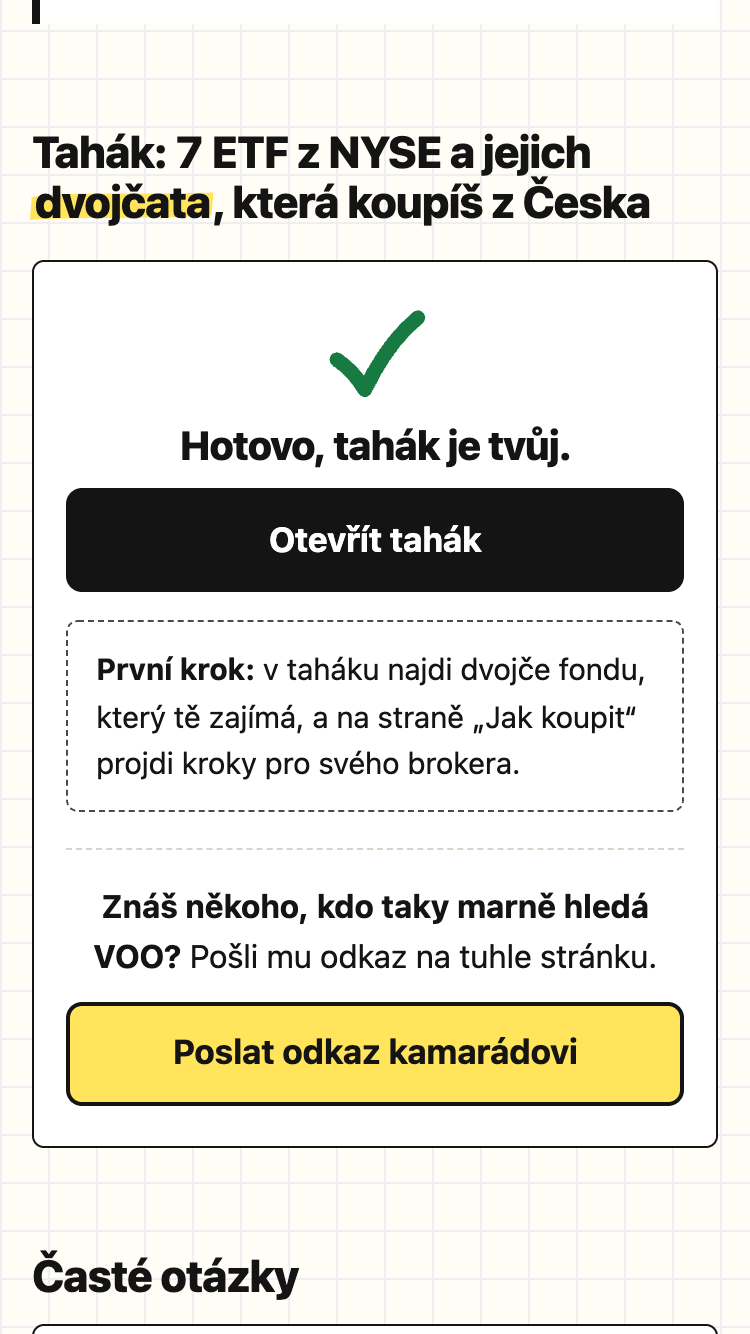
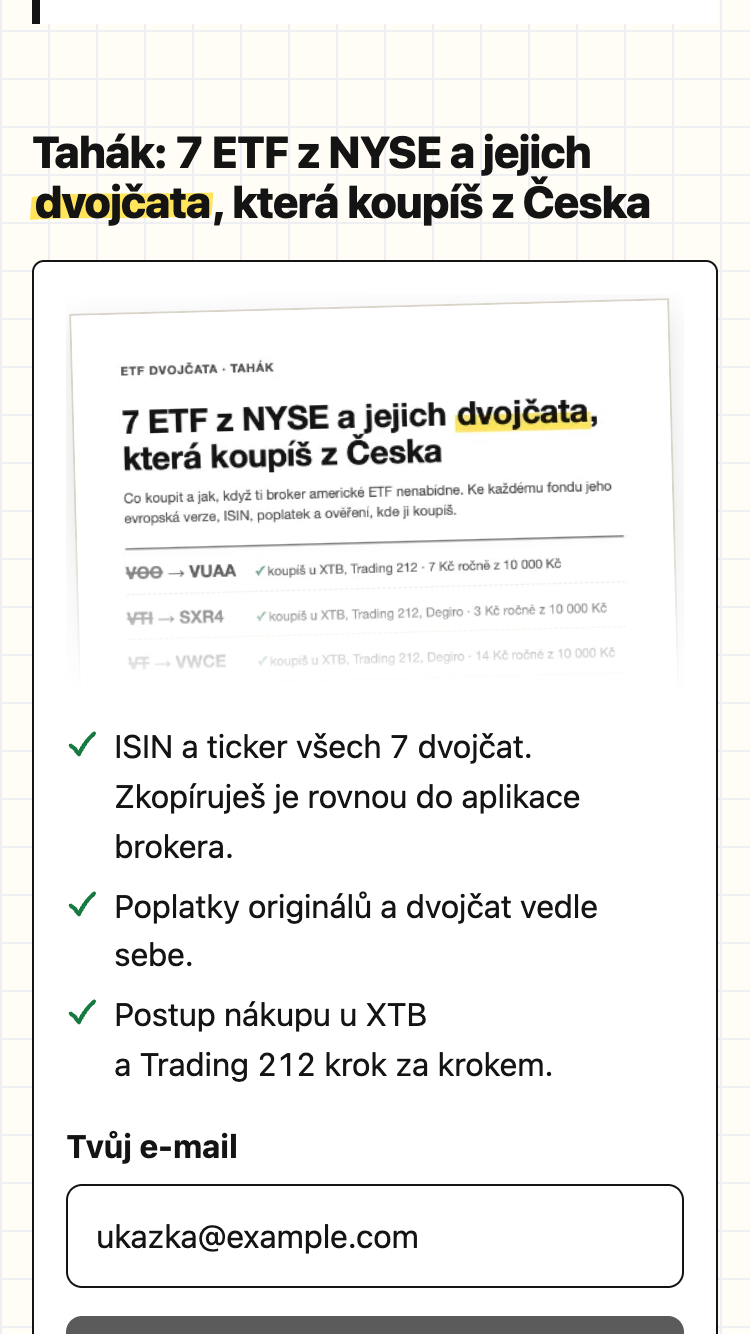
Snímky, Lighthouse a deník po třetím testu na iPhonu
- docs/screenshots: aktuální stav v Chromu a ve WebKitu (panel
  a formulář s klávesnicí a lištou návrhů, průběh otočení lístku),
- README: velikost stránky, Lighthouse (výkon, přístupnost, postupy
  100; SEO 66 kvůli záměrnému noindex), výsledky třetího testu,
- ai-log/denik.md: zadání, kontrola a kde se AI spletla.

Changed region(s): [[0.0613, 0.2151, 0.92, 0.8913], [0.0307, 0.922, 0.9813, 1.0]]

diff --git a/README.md b/README.md
@@ -194,7 +194,7 @@ _TODO: tři hypotézy seřazené podle očekávaného dopadu. U každé změna, 
 
 _TODO: stack a proč (čisté HTML/CSS/JS bez build kroku, Vercel, Supabase), zpracování formuláře, zabezpečení klíčů, rychlost načtení._
 
-- **Celá stránka je jeden soubor `public/index.html`** s inline CSS a JS a systémovým písmem. Bez externích skriptů a písem: 58,7 kB, po gzipu 16,9 kB, z toho JS 16,7 kB (po gzipu 6,1 kB). Jediný obrázek je náhled taháku (WebP, 24 kB), který se načte až u formuláře. Lighthouse (mobil, 11. 10. 2026, lokální server bez komprese): 100 ve všech čtyřech kategoriích (výkon, přístupnost, osvědčené postupy, SEO) u všech tří verzí úvodu, LCP 1,2 s, CLS 0, TBT 0 ms, celkem 82 KiB.
+- **Celá stránka je jeden soubor `public/index.html`** s inline CSS a JS a systémovým písmem. Bez externích skriptů a písem: 62,7 kB, po gzipu 18,5 kB, z toho JS 20,6 kB (po gzipu 7,6 kB). Jediný obrázek je náhled taháku (WebP, 24 kB), který se načte až u formuláře. Lighthouse (mobil, 11. 10. 2026, lokální server bez komprese, s CSP a ostatními hlavičkami z `vercel.json`): výkon, přístupnost a osvědčené postupy 100 u všech tří verzí úvodu, LCP 1,2 s, CLS 0, TBT 0 ms, celkem 88 KiB. SEO 66, protože stránka má záměrně `noindex` (jediný neúspěšný audit je „stránka je blokovaná pro indexování“).
 - **„Ručně kreslené“ prvky bez písma navíc.** Fix, šipky, kroužky a fajfky jsou malá inline SVG. Rukou psané písmo by přidalo desítky kB a probliknutí textu. Lístky se otáčejí bez 3D kontextu a bez `backface-visibility`: JS (Web Animations API, bez knihovny) otočí jednu rovinu s perspektivou o 90°, když je lístek z boku, vymění strany a dotočí. WebKit to kreslí stejně s grafickým čipem i bez něj. Při `prefers-reduced-motion` se jen vymění strany.
 - **Ikony a obrázek pro sdílení generuje skript** ([scripts/obrazky.mjs](scripts/obrazky.mjs)) ve stylu stránky a s čísly z `data/etf.json`: favicon (SVG a ICO), ikona pro iOS a `og.png` 1200×630 pro náhled odkazu na Facebooku a v Messengeru. Stránka si je nenačítá, takže nezdržují.
 - **Jen světlé barvy** (`color-scheme: only light`). Tmavý režim iOS ani automatické ztmavení v Chromu stránku nepřebarví, „sešit“ zůstane papírový.
@@ -277,6 +277,13 @@ Varianty úvodu po: [?v=dvojce](docs/screenshots/po-1b-uvod-dvojce.png), [?v=zac
 - V logu serveru bylo `GET /tahak.pdf` s 404 hned po úspěšném HEAD. Zopakovat se to nepodařilo a přegenerováním PDF to nebylo (PDF se naposledy zapsalo o 22 minut dřív). Generování teď zapisuje přes dočasný soubor a lokální server u každé 404 vypíše, kde soubor hledal.
 - Safari PDF místo stažení otevřelo v prohlížeči, takže poděkování „tahák se ti stahuje“ neplatilo. Teď je tam tlačítko „Otevřít tahák“.
 - Poděkování bylo prázdné, zásady měly moc žlutých TODO, chyběla favicona.
+
+**Třetí test na skutečném iPhonu, zase člověk** (Chrome na iOS, tedy WebKit, 11. 10. 2026, s videem). Oprava panelu pomohla, ale našly se dvě chyby, které simulace nezachytila:
+
+- **Lístek se neotáčel, jen blikl:** během animace zmizel (zůstala páska) a rub nebylo vidět. Příčinu zavedla AI v předchozí opravě: viditelnost líce a rubu přepínala v půlce *času* (220 ms), ale lístek byl kvůli křivce animace z boku už po ~50 ms. Mezitím byl otočený zády se skrytým rubem a GPU v iPhonu odvrácený líc nekreslí. Původní test kontroloval jen konečný stav, ne průběh. Teď se otáčí jedna rovina bez 3D kontextu, strany se vymění přesně ve chvíli, kdy je lístek z boku, a test ve WebKitu kontroluje snímky po 100 ms:
+
+  <img src="docs/screenshots/webkit-otoceni-listku.png" width="640" alt="Průběh otočení lístku VTI po 100 ms: líc se zužuje, ve 224 ms je lístek z boku, pak se rozšiřuje rub s dvojčetem SXR4">
+- **Tlačítko pod klávesnicí:** nad klávesnici vyskočila lišta s návrhy e-mailů, zakryla souhlas a tlačítko „Získat tahák“ skončilo pod klávesnicí. Tuhle lištu simulace nezachytila. Tlačítko je teď hned pod polem, souhlas pod ním a formulář nechává rezervu 50 px.
 
 AI navíc při kontrole na 320 px našla, že zadní strana lístku se třemi brokery přetékala přes další řadu, a že headless WebKit nerespektuje `backface-visibility` (rub prosvítal). Obojí je opravené a hlídané testem.
 

diff --git a/ai-log/denik.md b/ai-log/denik.md
@@ -110,3 +110,23 @@ Doplňuje exporty konverzací (`/export`), které nezachytí celý průběh prá
   - Testovací adresa na skutečné doméně (seznam.cz) mohla patřit skutečnému člověku. Při kontrole diffu před commitem ji AI nahradila adresou na vyhrazené doméně `example.com`.
   - Adresu `etf-dvojcata.vercel.app` AI chtěla použít pro `og:image`, ale kontrola ukázala, že ji už používá cizí projekt. Zvolila volnou `etf-dvojcata-clientelo` a zapsala to do návodu.
   - Příčinu 404 u PDF se nepodařilo zjistit. AI to neoznačila za vyřešené: zapsala, co vyloučila, a přidala diagnostiku do lokálního serveru.
+
+### 2026-10-11 – otočení lístku ve WebKitu, formulář nad lištou návrhů, bezpečnost a ochrana proti spamu
+
+- **Zadání pro AI:**
+  - nejdřív napsat příčinu nefunkčního otočení lístku (test člověka na iPhonu, Chrome na iOS), pak opravit a ověřit snímky v průběhu animace ve WebKitu,
+  - tlačítko formuláře nad klávesnici i s lištou návrhů e-mailů, odeslání modrou klávesou,
+  - vypsat dostupné skilly a ty na bezpečnost a review použít; projít celý projekt, přidat ochranu proti spamu (rychlost odeslání, limity s hashem IP, jednorázové domény, MX), bezpečnostní hlavičky, testy na všechno,
+  - noindex a poznámka „Ukázkové řešení“ v patičce, doména etf-dvojcata-demo, ověřit v dokumentaci Supabase, co je aktivita proti uspání.
+- **Kontrola výstupu:**
+  - příčina otočení změřená ve WebKitu (úhel z matice transformace po 100 ms), nový test kontroluje každý snímek průběhu a na staré verzi by selhal (zrcadlový nebo prázdný lístek),
+  - nová kontrola „pole a tlačítko nad lištou návrhů“ ověřená na staré verzi formuláře (selhala) i na nové (prošla),
+  - skilly `security-review` (s podúkolem podle jeho postupu) a `code-review`; jejich nálezy AI ověřila v kódu, falešný poplach (typografie) zapsala jako falešný,
+  - SQL testované na skutečném Postgresu (PGlite) včetně výchozích práv Supabase; lokální server používá stejnou databázi a stejné hlavičky jako Vercel,
+  - CSP ověřená tím, že podstrčený skript se nespustí, a Lighthouse bez chyb v konzoli.
+- **Kde se AI spletla a jak se na to přišlo:**
+  - Otočení lístku rozbila „pojistka“, kterou AI přidala v předchozím kroku kvůli headless WebKitu: přepínala strany podle času, ne podle úhlu. Test kontroloval jen konečný stav, takže chybu našel až člověk na telefonu.
+  - AI tvrdila v README, že zaokrouhlení času na hodiny zabrání spárovat kontakt s návštěvou. Review ukázal, že to nepravda (pořadová čísla, pořadí zápisu). Opraveno na náhodná UUID a tvrzení přepsané na pravdivé, včetně toho, co vyřešit nejde.
+  - AI ve svém předchozím počtu uvedla 45 kontrol databáze, skutečně jich je 44. Přišlo se na to při kontrole výstupu před commitem.
+  - Klepnutí v testech míjela tlačítka, protože fokus stránku ještě plynule posouval. Šlo o chybu testu, ne stránky; test teď čeká na doběhnutí posunu.
+  - Review hlásil chybějící nezlomitelné mezery v textech z JS. Kontrola znaků ukázala, že tam jsou (jako znak, ne `&nbsp;`), takže falešný poplach.
